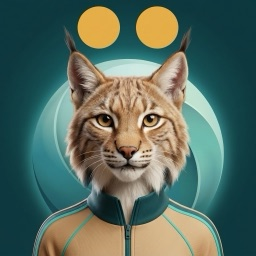
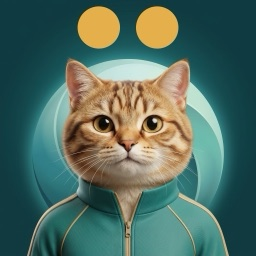
Аватары: поровну на образ, случайный порядок, персонаж из знака без туловища
Его правка 25.10: «Дл лого персонажа не нужно добавлять человеческое туловище.
Количество персонажей должно быть одинаково… убрать третьего человеческого
персонажа у мужчин и третью у женщин. Порядок персонажей сделай рандомным чтоб
белые не всегда стояли первыми». По 10 + свой из знака; у женских убран и заяц,
чтобы поровну. Порядок перемешивается при каждом открытии листа.

Claude-Session: https://claude.ai/code/session_01Bc3Np85Bd2kz1coA2xUgTW

diff --git a/index.html b/index.html
@@ -8061,7 +8061,13 @@ function имяТренера(){ var me=myData()||{}; return String(me.coach_nam
 /* 25.10, его правка: «чистый азиат не нужен? И стилизуй лого персонаж под мужской и женский. Из мужских убери лошадь» —
    мужских 11, женских 12, последний — персонаж из знака своего образа (mn / fn), он по умолчанию;
    «n» — общий нейтральный, только у тех, кто образ не выбирал */
-var АВ_НА_ОБРАЗ={m:11, f:12};
+/* 25.10, ещё правка: «Количество персонажей должно быть одинаково… убрать третьего человеческого
+   персонажа у мужчин и третью у женщин. Порядок персонажей сделай рандомным чтоб белые не всегда
+   стояли первыми»; у персонажа из знака — без туловища. По 10 на образ + свой из знака; порядок
+   перемешивается при каждом открытии листа, персонаж из знака — последним. */
+var АВ_НА_ОБРАЗ={m:10, f:10};
+function аватарПорядок(пол){ var a=[]; for(var i=1;i<=АВ_НА_ОБРАЗ[пол];i++) a.push(пол+i);
+  for(var j=a.length-1;j>0;j--){ var r=Math.floor(Math.random()*(j+1)), t=a[j]; a[j]=a[r]; a[r]=t; } return a; }
 function аватарСвой(k, пол){ var м=/^([mf])(\d{1,2}|n)$/.exec(k||''); return !!м && м[1]===пол && (м[2]==='n' || (+м[2]>=1 && +м[2]<=АВ_НА_ОБРАЗ[пол])); }
 function аватарКод(me){ me=me||{}; var пол=me.coach_sex==='f'?'f':(me.coach_sex==='m'?'m':''), k=me.coach_av||'';
   if(!пол) return 'n'; return аватарСвой(k, пол) ? k : пол+'n'; }
@@ -8087,7 +8093,7 @@ function тренерПример(){
 }
 function openTren(изКарточки){
   var me=myData()||{};
-  ТР={step:1,name:String(me.coach_name||''),sex:me.coach_sex==='f'?'f':'m',av:(аватарКод(me)==='n' ? (me.coach_sex==='f'?'fn':'mn') : аватарКод(me)),voice:VOICEHINT[me.voice]&&me.voice?me.voice:'standard',
+  ТР={step:1,name:String(me.coach_name||''),sex:me.coach_sex==='f'?'f':'m',av:(аватарКод(me)==='n' ? (me.coach_sex==='f'?'fn':'mn') : аватарКод(me)),порядок:{m:аватарПорядок('m'),f:аватарПорядок('f')},voice:VOICEHINT[me.voice]&&me.voice?me.voice:'standard',
       addr:me.addr==='vy'?'vy':(me.addr==='ty'?'ty':(me.voice||me.coach_at?'ty':'vy')),изКарточки:!!изКарточки};
   renderTren();
   var m=document.getElementById('trenm'); if(m) m.classList.add('show');
@@ -8109,7 +8115,7 @@ function renderTren(){
   } else if(n===2){
     h+='<h3 class="trh" id="trh">Выберите образ тренера</h3><p class="trp">Мужчина или женщина — влияет только на то, как тренер говорит о себе: «записал» или «записала». Нормы считаются по вашей анкете.</p>'+
       '<div class="trgrid">'+[['m','Мужчина','«Записал»'],['f','Женщина','«Записала»']].map(function(x){ return '<button type="button" class="tropt" data-trsex="'+x[0]+'" aria-pressed="'+(ТР.sex===x[0])+'"><span class="trava3" style="width:56px;height:56px">'+аватарHTML('img/av/'+(ТР.sex===x[0]&&/^[mf]/.test(ТР.av)?ТР.av:x[0]+'n')+'.jpg')+'</span><b>'+x[1]+'</b><span>'+x[2]+'</span></button>'; }).join('')+'</div>'+
-      '<span class="fmlab travlab">ВЫБЕРИТЕ АВАТАР</span><div class="travgrid">'+Array.apply(null,{length:АВ_НА_ОБРАЗ[ТР.sex]}).map(function(_, i){ return ТР.sex+(i+1); }).concat([ТР.sex+'n']).map(function(k, i){
+      '<span class="fmlab travlab">ВЫБЕРИТЕ АВАТАР</span><div class="travgrid">'+((ТР.порядок&&ТР.порядок[ТР.sex])||аватарПорядок(ТР.sex)).concat([ТР.sex+'n']).map(function(k, i){
         return '<button type="button" class="travbtn" data-trav="'+k+'" aria-pressed="'+(ТР.av===k)+'" aria-label="Аватар '+(i+1)+'">'+аватарHTML('img/av/'+k+'.jpg')+'</button>'; }).join('')+'</div>';
   } else if(n===3){
     h+='<h3 class="trh" id="trh">Выберите характер тренера</h3><p class="trp">Ниже — как '+esc(имя)+' ответит, если вы напишете «плов 350 г».</p>'+

diff --git a/tg/test-trener-pod-sebya.js b/tg/test-trener-pod-sebya.js
@@ -37,9 +37,10 @@ const ЦЕЛЬ = { text: '75 кг к январю', wt: 'down', rate: -0.5, from
       дано(/Выберите образ тренера/.test(await лист.innerText()), тема + ': шаг 2 — образ');
       await page.click('#trenm [data-trsex="f"]');
       /* 24.10: аватар — шесть на образ, выбранный уходит в профиль и в чат */
-      дано((await page.locator('#trenm [data-trav]').count()) === 13 && (await page.getAttribute('#trenm [data-trav="fn"]', 'aria-pressed')) === 'true', тема + ': 12 женских и персонаж из знака — он по умолчанию');
+      дано((await page.locator('#trenm [data-trav]').count()) === 11 && (await page.getAttribute('#trenm [data-trav="fn"]', 'aria-pressed')) === 'true', тема + ': 10 женских и персонаж из знака — он по умолчанию');
+      дано((await page.getAttribute('#trenm [data-trav]:last-child', 'data-trav')) === 'fn', тема + ': персонаж из знака — последним');
       await page.click('#trenm [data-trsex="m"]');
-      дано((await page.locator('#trenm [data-trav]').count()) === 12 && (await page.getAttribute('#trenm [data-trav="mn"]', 'aria-pressed')) === 'true', тема + ': у мужского 11 и свой персонаж из знака');
+      дано((await page.locator('#trenm [data-trav]').count()) === 11 && (await page.getAttribute('#trenm [data-trav="mn"]', 'aria-pressed')) === 'true', тема + ': у мужского столько же и свой персонаж из знака');
       await page.click('#trenm [data-trsex="f"]');
       await page.click('#trenm [data-trav="f3"]');
       дано((await page.getAttribute('#trenm [data-trav="f3"]', 'aria-pressed')) === 'true', тема + ': выбран аватар f3');
